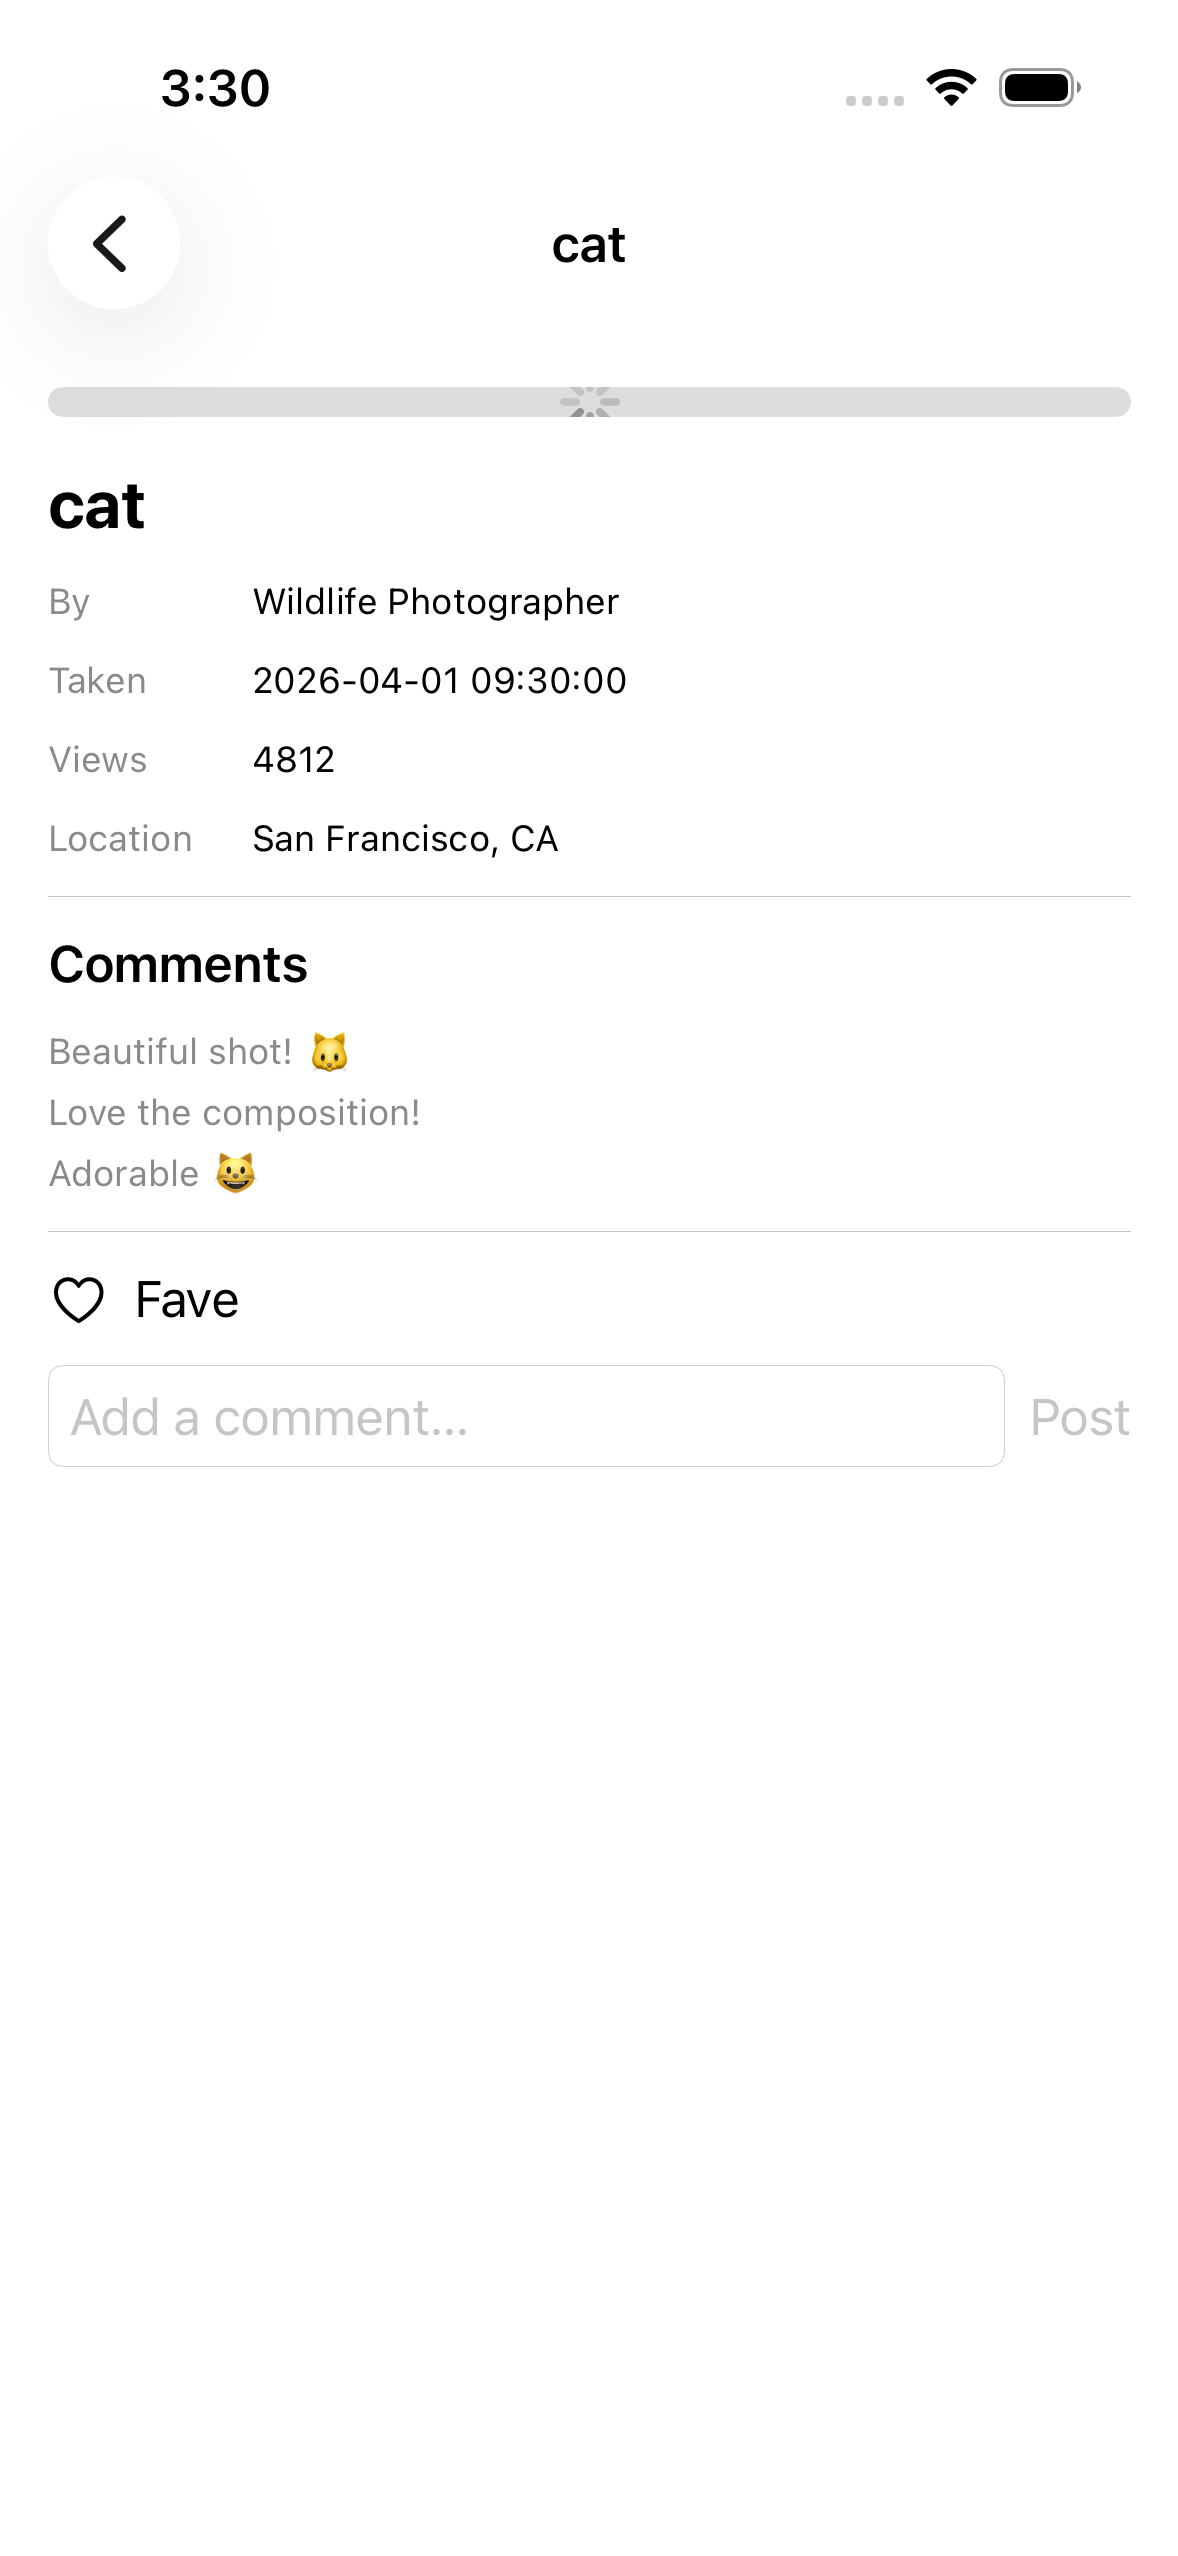
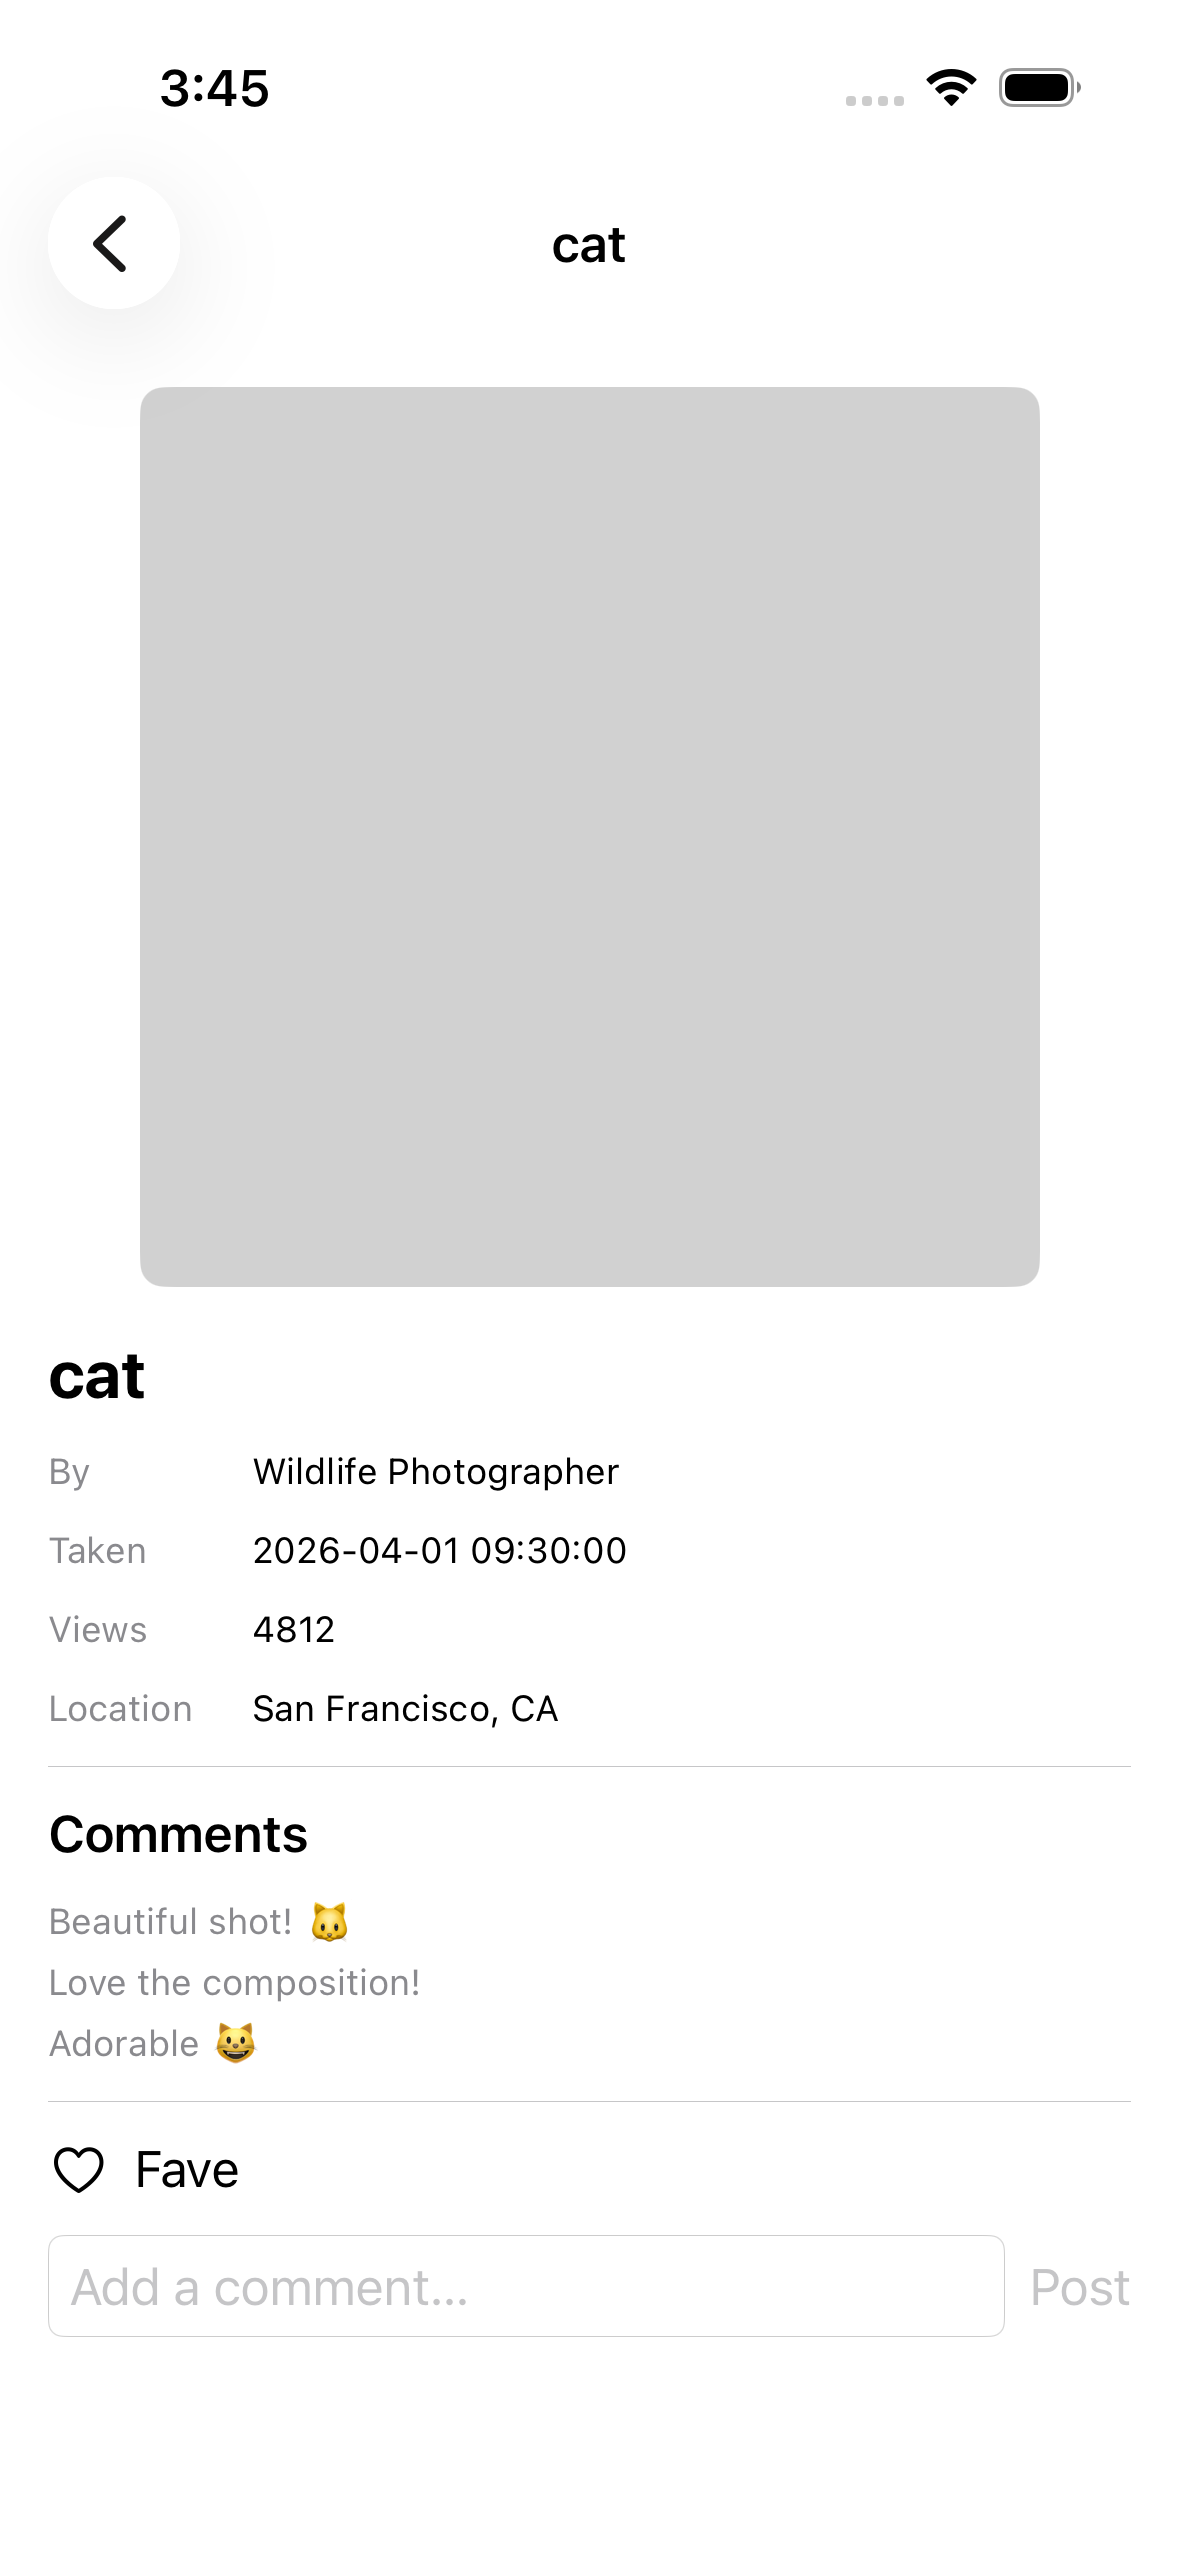
fix(screenshots): mock thumbnail and large photo images to eliminate loading spinners

diff --git a/Examples/FlickrDemoApp/DemoViewModel.swift b/Examples/FlickrDemoApp/DemoViewModel.swift
@@ -1,7 +1,9 @@
 // DemoViewModel.swift — Observable state connecting the UI to AWFlickrServices.
 
+import CoreGraphics
 import Foundation
 import Combine
+import ImageIO
 import AWFlickrServices
 
 /// Drives the demo UI. Conforms to FlickrPhotosProtocol and FlickrOAuthProtocol
@@ -174,3 +176,29 @@ final class DemoViewModel: ObservableObject, FlickrPhotosProtocol, FlickrOAuthPr
         signedInAs = nil
     }
 }
+
+#if DEBUG
+extension DemoViewModel {
+    /// Returns PNG Data for a solid gray image at the given pixel side length.
+    /// Used by screenshot tests to fill photo view areas without any network call.
+    static func screenshotPlaceholderData(side: Int = 300) -> Data? {
+        let space = CGColorSpaceCreateDeviceGray()
+        guard let ctx = CGContext(
+            data: nil, width: side, height: side,
+            bitsPerComponent: 8, bytesPerRow: side,
+            space: space,
+            bitmapInfo: CGImageAlphaInfo.none.rawValue
+        ) else { return nil }
+        ctx.setFillColor(gray: 0.82, alpha: 1.0)
+        ctx.fill(CGRect(x: 0, y: 0, width: side, height: side))
+        guard let cgImage = ctx.makeImage() else { return nil }
+        let mutableData = NSMutableData()
+        guard let dest = CGImageDestinationCreateWithData(
+            mutableData, "public.png" as CFString, 1, nil
+        ) else { return nil }
+        CGImageDestinationAddImage(dest, cgImage, nil)
+        guard CGImageDestinationFinalize(dest) else { return nil }
+        return mutableData as Data
+    }
+}
+#endif

diff --git a/Examples/FlickrDemoApp/PhotoGridView.swift b/Examples/FlickrDemoApp/PhotoGridView.swift
@@ -54,6 +54,12 @@ private struct ThumbnailView: View {
         .frame(width: 120, height: 120)
         .clipShape(RoundedRectangle(cornerRadius: 6))
         .task(id: urlString) {
+            #if DEBUG
+            if ProcessInfo.processInfo.environment["MOCK_PHOTOS"] != nil {
+                imageData = DemoViewModel.screenshotPlaceholderData(side: 120)
+                return
+            }
+            #endif
             guard let url = URL(string: urlString) else { return }
             loader.downloadImageData(from: url) { result in
                 if case .success(let data) = result {

diff --git a/Examples/FlickrDemoApp/PhotoDetailView.swift b/Examples/FlickrDemoApp/PhotoDetailView.swift
@@ -175,6 +175,7 @@ struct PhotoDetailView: View {
             isLoadingInfo = false
             info = mockInfo
             comments = viewModel.mockPhotoComments
+            imageData = DemoViewModel.screenshotPlaceholderData(side: 400)
             return
         }
         #endif
